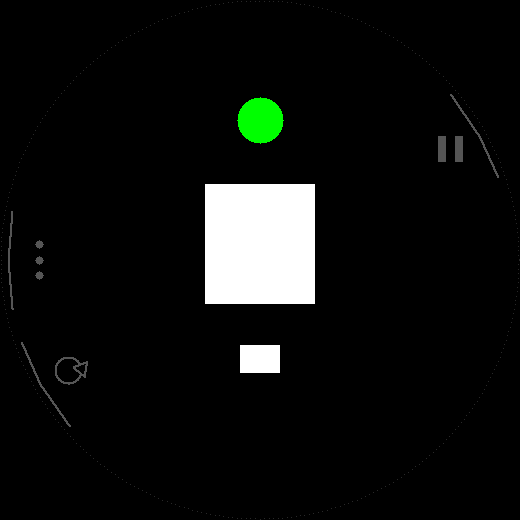
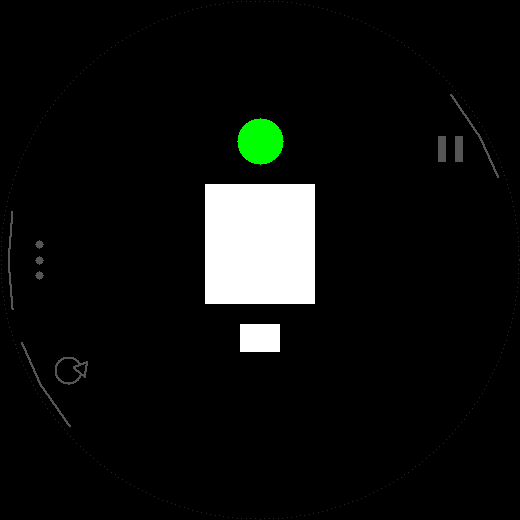
Tighten center gaps to 4% of height (dot and ticks both closer to chrono)

Changed region(s): [[0.4308, 0.1846, 0.5538, 0.3385], [0.4615, 0.6154, 0.5538, 0.7385]]

diff --git a/tools/preview.py b/tools/preview.py
@@ -72,7 +72,7 @@ def render(path, W, running):
     timeY = int(H * 47 / 100)
     th, mh = 120, 28
     dotR = int(H * 45 / 1000)
-    gap = int(H * 8 / 100)
+    gap = int(H * 4 / 100)
     dotY = timeY - th // 2 - gap - dotR
     ticksY = timeY + th // 2 + gap + mh // 2
     disc(cx, dotY, dotR, green if running else white)
